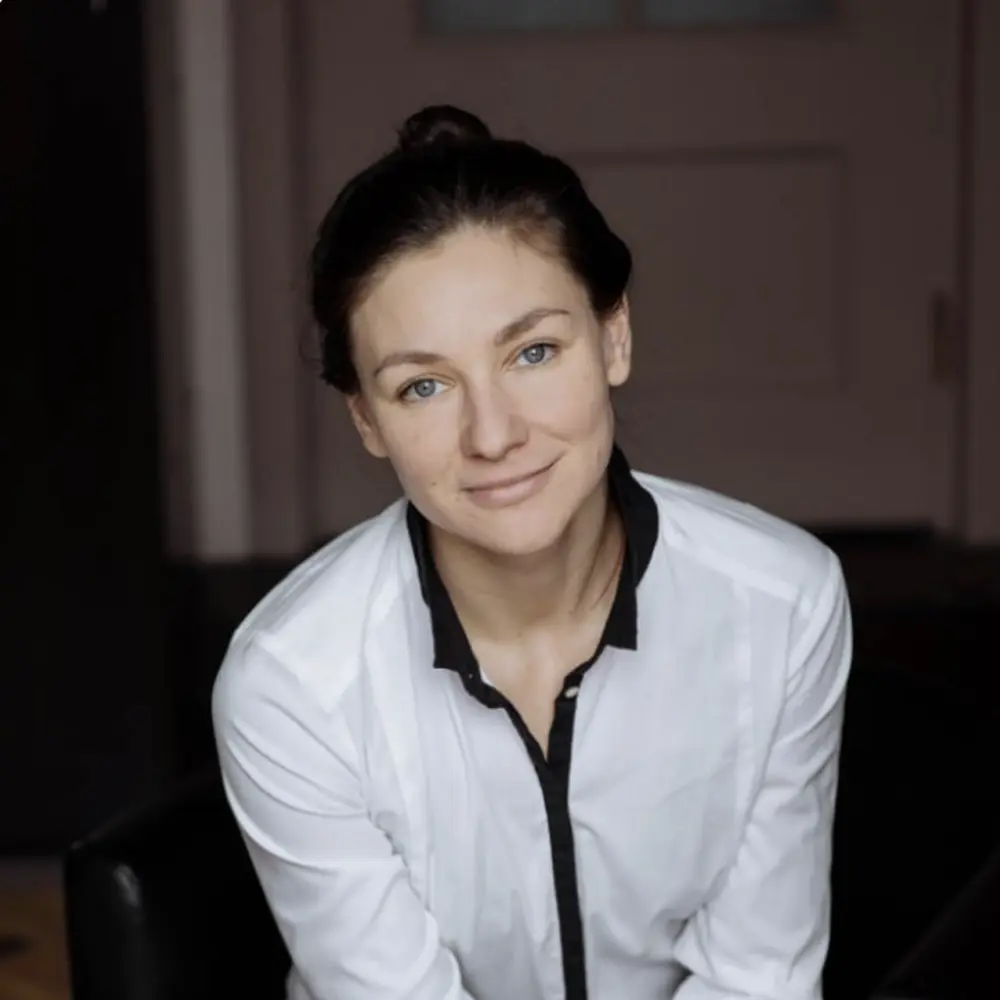
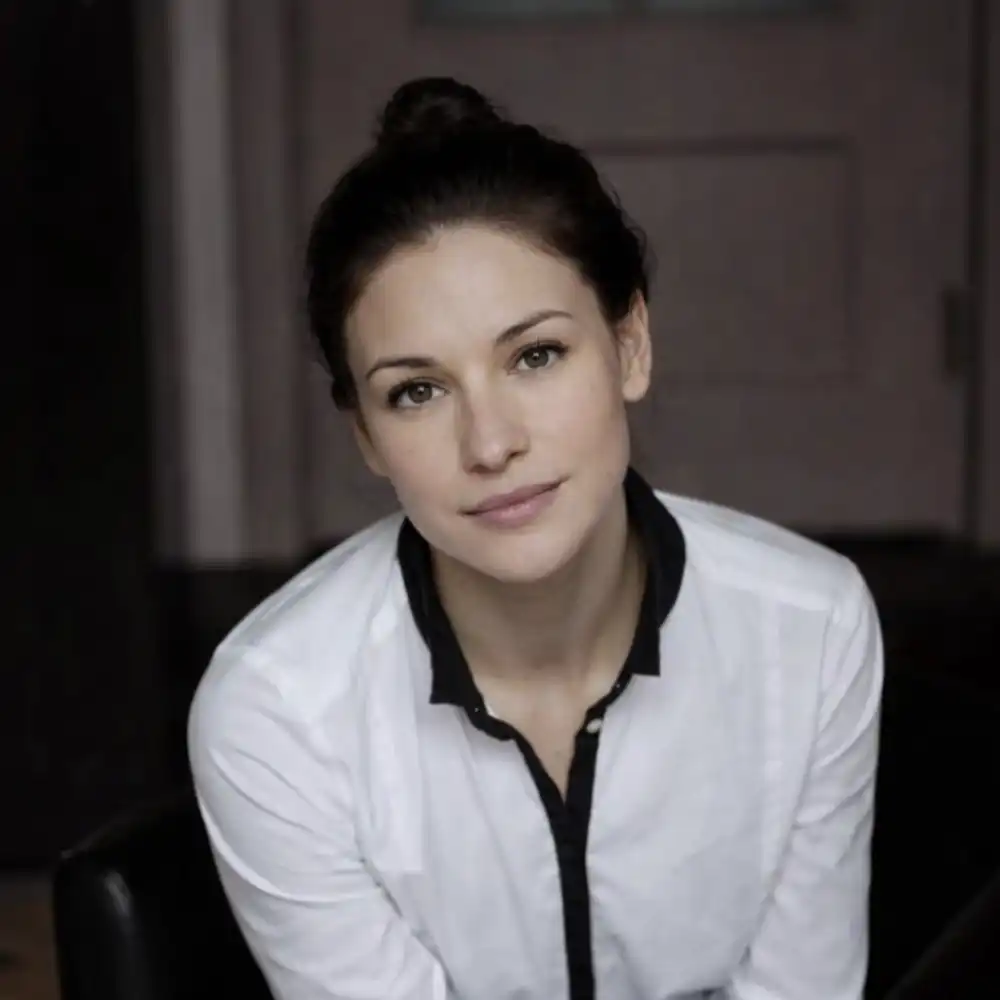
feat: update psychologist name, role, and photo

diff --git a/landing/src/components/sections/PsychologistConsultation.tsx b/landing/src/components/sections/PsychologistConsultation.tsx
@@ -76,7 +76,7 @@ export function PsychologistConsultation() {
             <div className="relative w-28 h-28 rounded-full overflow-hidden border-2 border-[var(--app-border-primary-color)]">
               <Image
                 src="/team/aldghgbljhvberoub.webp"
-                alt="Viktoria Taranenko"
+                alt="Elena Morozova"
                 fill
                 className="object-cover"
               />
@@ -85,10 +85,10 @@ export function PsychologistConsultation() {
 
           <div className="text-center">
             <p className="text-base font-semibold text-[var(--app-text-primary-color)]">
-              Viktoria Taranenko
+              Elena Morozova
             </p>
             <p className="text-sm text-[var(--app-text-secondary-color)] mt-0.5">
-              Professional Psychologist
+              Psychologist
             </p>
           </div>
 
